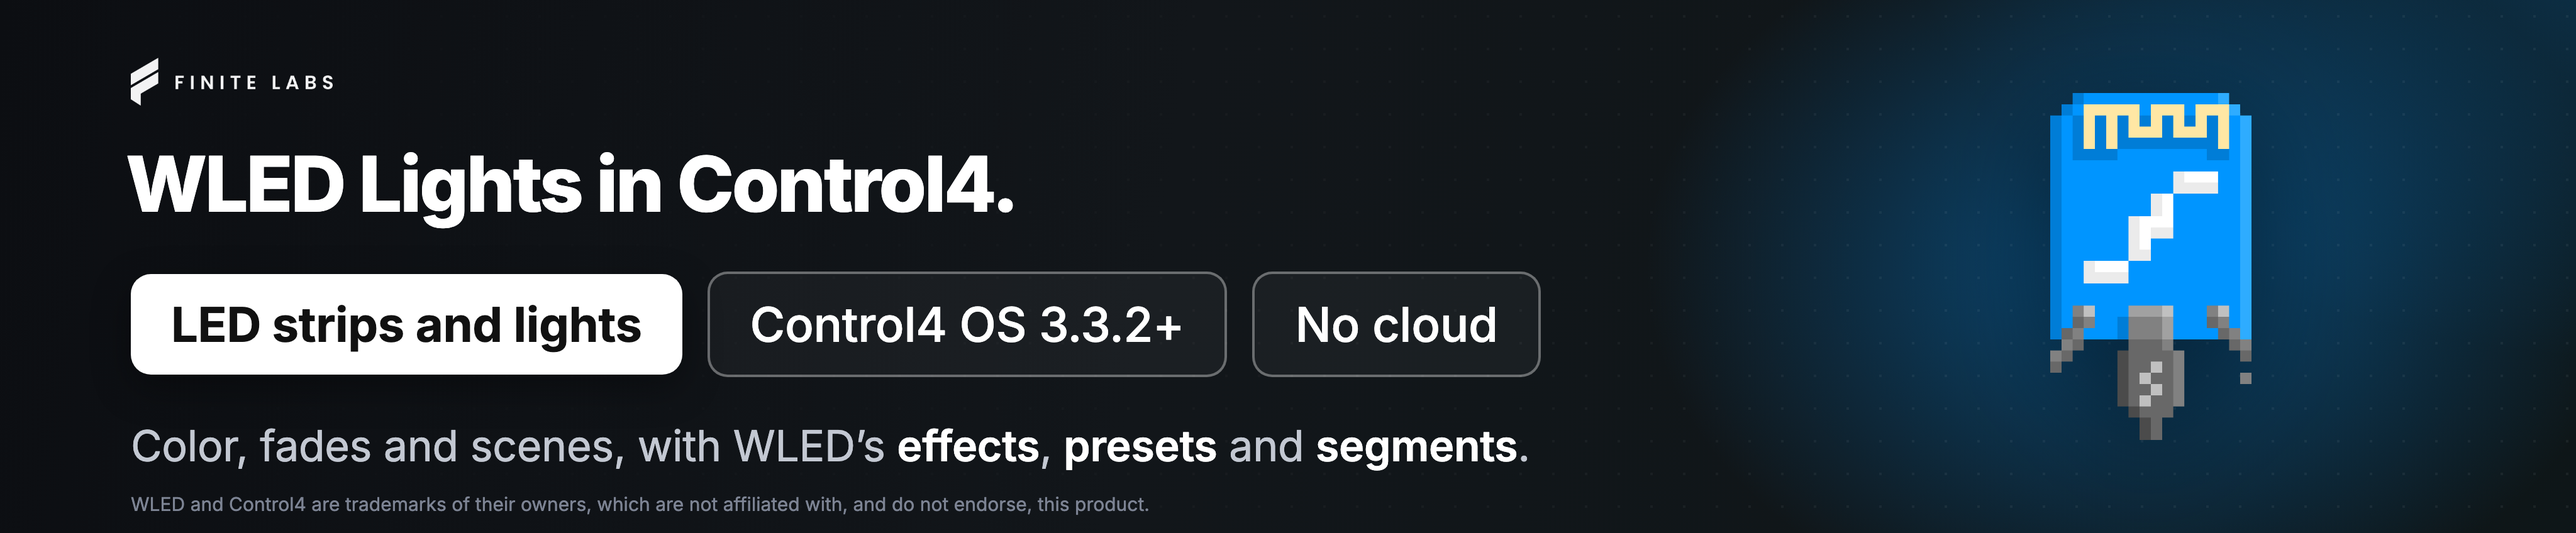
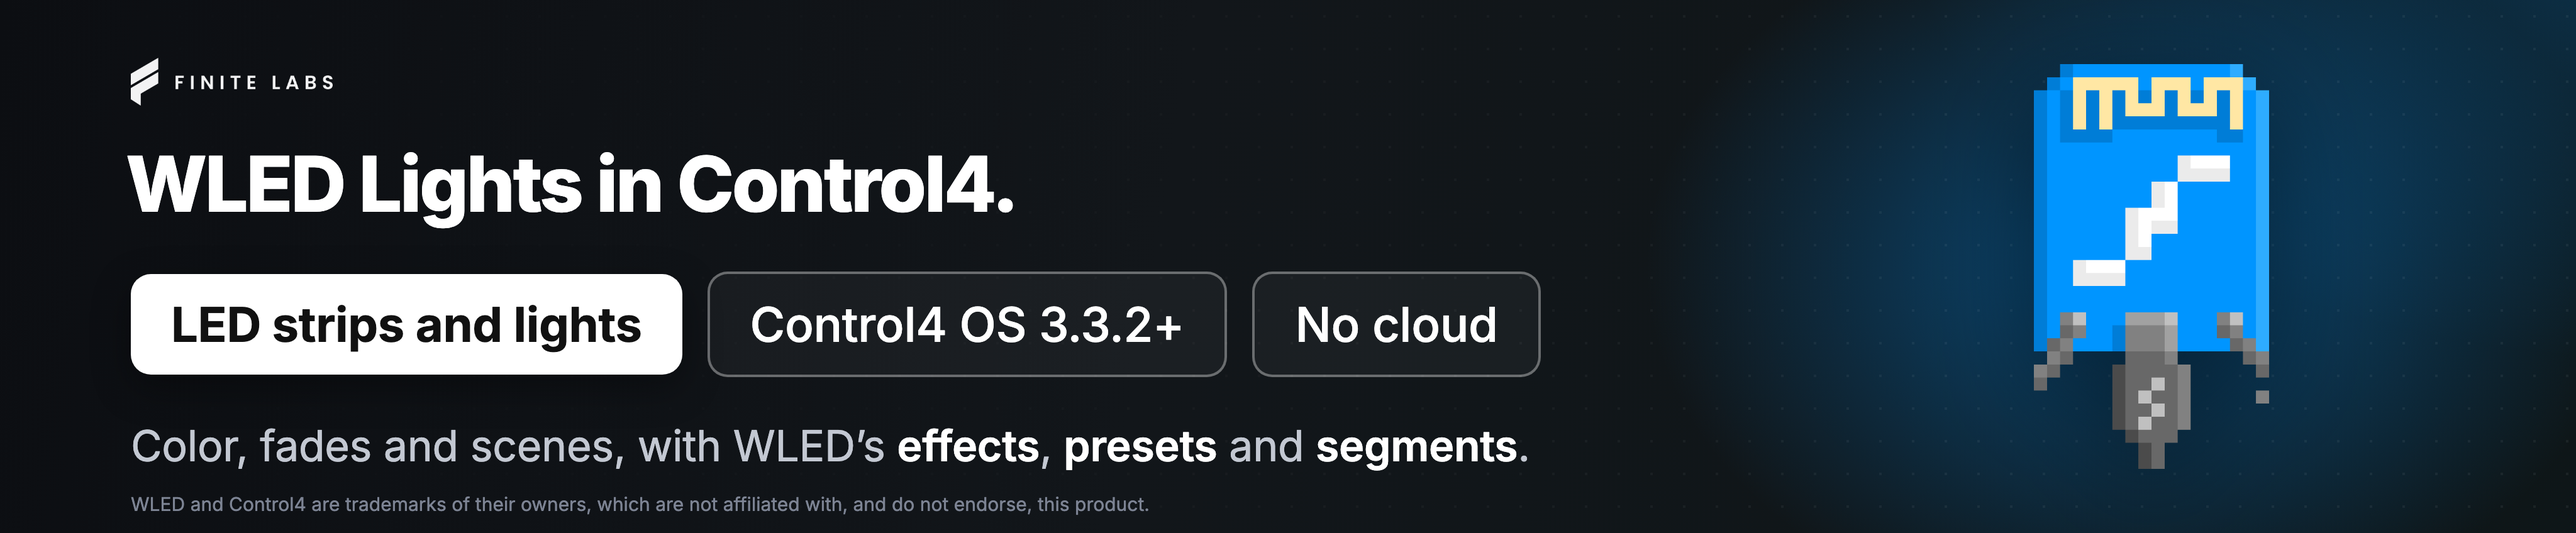
chore: the spotlight and launch-post marks are sized up to match across the drivers

Changed region(s): [[0.7812, 0.1226, 0.9062, 0.8892]]

diff --git a/resources/drivercentral/banners/spotlight-4096x848.html b/resources/drivercentral/banners/spotlight-4096x848.html
@@ -20,7 +20,7 @@
   .chip.line { color: #fff; border: 2px solid rgba(255,255,255,0.35); background: rgba(255,255,255,0.04); font-weight: 500; }
   .sub { position: absolute; left: 104px; top: 334px; color: #c3c8d2; font-size: 34px; font-weight: 400; letter-spacing: -0.005em; white-space: nowrap; }
   .sub em { font-style: normal; color: #fff; font-weight: 600; }
-  .mark { position: absolute; left: 1630px; top: 74px; width: 160px; height: 276px; object-fit: contain; filter: drop-shadow(0 18px 40px rgba(0,0,0,0.45)); }
+  .mark { position: absolute; left: 1617px; top: 51px; width: 187px; height: 322px; object-fit: contain; filter: drop-shadow(0 18px 40px rgba(0,0,0,0.45)); }
   .note { position: absolute; left: 104px; bottom: 14px; color: #7d8494; font-size: 15px; letter-spacing: 0; white-space: nowrap; }
 </style></head>
 <body>

diff --git a/resources/drivercentral/banners/launch-post-2400x1200.html b/resources/drivercentral/banners/launch-post-2400x1200.html
@@ -21,7 +21,7 @@
   .chip.line { color: #fff; border: 1.5px solid rgba(255,255,255,0.35); background: rgba(255,255,255,0.04); font-weight: 500; }
   .sub { margin: 32px 0 0 2px; color: #c3c8d2; font-size: 24px; line-height: 1.4; font-weight: 400; letter-spacing: -0.005em; }
   .sub em { font-style: normal; color: #fff; font-weight: 600; }
-  .mark { position: absolute; left: 870px; top: 190px; width: 128px; height: 220px; object-fit: contain; filter: drop-shadow(0 14px 32px rgba(0,0,0,0.45)); }
+  .mark { position: absolute; left: 834px; top: 135px; width: 192px; height: 330px; object-fit: contain; filter: drop-shadow(0 14px 32px rgba(0,0,0,0.45)); }
   .note { position: absolute; left: 74px; right: 74px; bottom: 20px; color: #7d8494; font-size: 13px; line-height: 1.35; }
 </style></head>
 <body>
